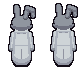
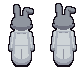
Montaż: ucho Macieja z tyłu głowy, krawat, balkonik, kubek w łapkach, profil z kubkiem, wózek, robotnicy przy obserwatorium, szelki Jani
Claude-Session: https://claude.ai/code/session_01AApWJ5vAAocyN6ZrWVUcqc

Changed region(s): [[0.2619, 0.0597, 0.4286, 0.2985], [0.7619, 0.0597, 0.9286, 0.2985]]

diff --git a/tools/art/jania.js b/tools/art/jania.js
@@ -18,7 +18,8 @@ const R = {
 const EYE = [42, 24, 22], SHINE = [250, 244, 236], BTN = [255, 214, 92], MOUTH = [120, 50, 40];
 const TOP = { light: [0, -0.62, 0.78] }; // światło z góry → cieniowanie symetryczne
 
-function frame(dir, f) {
+// o.paw: prawa łapka przodem w punkcie [x, y] (pisze); o.carry: z boku obie łapki przed sobą, kubek
+function frame(dir, f, o = {}) {
   const b = new P.Buf(FW - 2, FH - 3);
   b.ox = 1; b.oy = 1;
   const S = (prims, ramp, o) => P.solid(b, prims, ramp, { ...(dir === 1 ? {} : TOP), ...o });
@@ -30,15 +31,19 @@ function frame(dir, f) {
     const back = dir === 2, droop = !back && (f === 4 || f === 5), pawUp = !back && f === 5;
     S([E(11, 44 - Math.max(st, 0), 4, 2.2), E(21, 44 - Math.max(-st, 0), 4, 2.2)], R.cream, back ? { dark: 0.85 } : {});
     S([C(12, 39, 12, 42, 3.2), C(20, 39, 20, 42, 3.2), E(16, 35 + bob, 7, 6)], R.denim);
-    S([C(8, 30 + bob, 7, 37 + st, 2.1, 1.9), pawUp ? C(24, 30, 26, 18, 2.1, 1.9) : C(24, 30 + bob, 25, 37 - st, 2.1, 1.9)], R.fur);
-    S([E(7, 38 + st + bob, 2.1, 1.8), pawUp ? E(26, 16, 2.1, 1.8) : E(25, 38 - st + bob, 2.1, 1.8)], R.cream);
+    const rp = o.paw || (pawUp ? [26, 16] : [25, 37 - st]);
+    S([C(8, 30 + bob, 7, 37 + st, 2.1, 1.9), C(24, 30 + bob, rp[0], rp[1] + (o.paw || pawUp ? 0 : bob), 2.1, 1.9)], R.fur);
+    S([E(7, 38 + st + bob, 2.1, 1.8), E(rp[0], rp[1] + 1 + (o.paw || pawUp ? 0 : bob), 2.1, 1.8)], R.cream);
     const by = Math.round(Y(30 + bob));
-    if (back) { for (let i = 0; i < 6; i++) sym(5 - i, by + i, R.denim[1]); S([E(16, 39 + bob, 2.6, 2.4)], R.cream); }
+    if (back) S([E(16, 39 + bob, 2.6, 2.4)], R.cream);
     else {
       for (let d = 0; d < 4; d++) for (let y = by; y < by + 5; y++) sym(d, y, y === by + 4 ? R.denim[1] : R.denim[3]);
       sym(3, by, BTN); sym(0, by + 2, R.denim[2]); sym(1, by + 2, R.denim[2]);
     }
     fill(CX, Y(28.4 + bob), 6, 3, R.fur[1]); // szyja (szersza)
+    // szelki przez ramiona: z tyłu krzyżują się do środka pasa, z przodu idą z karczka w górę pod brodę
+    if (back) for (let i = 0; i < 7; i++) sym(Math.max(0, 4 - Math.floor(i * 0.7)), by - 2 + i, R.denim[1]);
+    else for (const y of [by - 2, by - 1]) { sym(3, y, R.denim[2]); }
     // uszy: symetryczne; prawe opada w klatkach 4-5
     S([C(12, 15 + bob, 11.4, 3 + bob, 2.3, 2.7)], R.fur);
     if (droop) S([C(20, 15, 23, 11, 2.3, 2.6), C(23, 11, 28, 16, 2.6, 2.1)], R.fur);
@@ -92,9 +97,19 @@ function frame(dir, f) {
     const nx = Math.round(X(24)), ny = Math.round(Y(23 + hb));
     b.pset(nx, ny, R.pink[0]); b.pset(nx - 1, ny + 1, MOUTH); b.pset(nx - 2, ny + 2, MOUTH); b.pset(nx - 3, ny + 1, MOUTH);
     b.pset(Math.round(X(19)), ey + 4, R.pink[1]);
-    const sw = f === 0 ? 0 : [-3, 0, 3, 0][ph]; // ręka w przeciwfazie do bliższej nogi
-    S([C(16, 30 + hb, 16 + sw, 37 + hb, 2.1, 1.9)], R.fur);
-    S([E(16 + sw, 38 + hb, 2, 1.8)], R.cream);
+    if (o.carry) {  // kubek trzymany oburącz przed sobą: dalsza łapka za kubkiem, bliższa z przodu
+      const mx = Math.round(X(21.4)), my = Math.round(Y(31 + hb));
+      S([C(15, 30 + hb, 22, 32 + hb, 2, 1.8)], R.fur, { dark: 0.75 });
+      S([E(23.6, 32.6 + hb, 1.8, 1.6)], R.cream, { dark: 0.8 });
+      for (let y = 0; y < 4; y++) for (let x = 0; x < 3; x++) b.pset(mx + x, my + y, y === 0 ? [206, 212, 224] : [240, 242, 248]);
+      b.pset(mx + 3, my + 1, [206, 212, 224]); b.pset(mx + 3, my + 2, [206, 212, 224]);
+      S([C(16, 30 + hb, 20, 34 + hb, 2.1, 1.9)], R.fur);
+      S([E(21, 34.4 + hb, 1.9, 1.7)], R.cream);
+    } else {
+      const sw = f === 0 ? 0 : [-3, 0, 3, 0][ph]; // ręka w przeciwfazie do bliższej nogi
+      S([C(16, 30 + hb, 16 + sw, 37 + hb, 2.1, 1.9)], R.fur);
+      S([E(16 + sw, 38 + hb, 2, 1.8)], R.cream);
+    }
   }
   return ink(P.rimLight(b, R.fur, { dir: dir === 1 ? [-1, -1] : [0, -1] }));
 }
@@ -108,7 +123,7 @@ function breath(src, split = 40) {
 const ROWS = [[0, 7], [1, 5], [2, 3]], COLS = 8;
 const frames = [];
 for (const [dir, n] of ROWS) for (let f = 0; f < COLS; f++) frames.push(f === 7 ? breath(frame(dir, 0)) : f < n ? frame(dir, f) : new P.Buf(FW, FH));
-module.exports = { frames, FW, FH, COLS, R };
+module.exports = { frames, frame, breath, FW, FH, COLS, R };
 
 if (require.main === module) {
   P.save(P.pack(frames, { cols: COLS, pad: 0 }), process.argv[2] + "/jania.png");

diff --git a/tools/art/portraits.js b/tools/art/portraits.js
@@ -60,6 +60,7 @@ Canvas.prototype.front = function (a, b) { return ORDER.indexOf(a) > ORDER.index
 const ell = (cx, cy, rx, ry) => (x, y) => ((x - cx) / rx) ** 2 + ((y - cy) / ry) ** 2 <= 1;
 const sup = (cx, cy, rx, ry, e = 2.6) => (x, y) => Math.abs((x - cx) / rx) ** e + Math.abs((y - cy) / ry) ** e <= 1; // zaokrąglony prostokąt
 const cap = (ax, ay, bx, by, r) => (x, y) => { const vx = bx - ax, vy = by - ay, t = Math.max(0, Math.min(1, ((x - ax) * vx + (y - ay) * vy) / (vx * vx + vy * vy))); return (x - ax - t * vx) ** 2 + (y - ay - t * vy) ** 2 <= r * r; };
+const rell = (cx, cy, rx, ry, a) => (x, y) => { const c = Math.cos(a), s = Math.sin(a), u = (x - cx) * c + (y - cy) * s, v = -(x - cx) * s + (y - cy) * c; return (u / rx) ** 2 + (v / ry) ** 2 <= 1; };
 const or = (...f) => (x, y) => f.some((g) => g(x, y));
 const and = (...f) => (x, y) => f.every((g) => g(x, y));
 const ramp = (n, o) => P.hueRamp(n, o);
@@ -93,16 +94,20 @@ function maciej(blink = false) {
   const furD = ramp(3, { hue: 228, shift: 20, sat: 0.1, light: [0.4, 0.64] });
   const light = ramp(2, { hue: 220, shift: 12, sat: 0.08, light: [0.8, 0.9] });
   const coat = ramp(3, { hue: 212, shift: 16, sat: 0.1, light: [0.74, 0.96] });
-  const shirt = ramp(2, { hue: 208, shift: 14, sat: 0.42, light: [0.46, 0.62] });
+  const shirt = ramp(2, { hue: 210, shift: 10, sat: 0.4, light: [0.8, 0.88] });
   const pinkE = ramp(2, { hue: 352, shift: 10, sat: 0.22, light: [0.62, 0.74] });
   c.add("coat", sup(CX, 97, 38, 28, 2.2), coat, { group: "body" });
   c.add("collar", (x, y) => y > 67 && y < 76 && Math.abs(x - CX) < 21, coat, { group: "body", raw: true }); // ramiona tuż pod policzkami
   c.add("shirt", (x, y) => y > 70 && Math.abs(x - CX) < (y - 70) * 0.45 + 2.5, shirt, { group: "body", flat: true, raw: true });
+  // krawat: wąski węzeł, klinga lekko się rozszerza, szpiczasty koniec
+  const tw = (y) => (y < 74 ? 2 : y < 79 ? 1.5 : y < 84 ? 2.5 : 2.5 - (y - 84) * 0.9);
+  c.add("tie", (x, y) => y > 70.5 && y < 87 && Math.abs(x - CX) < tw(y), ramp(2, { hue: 322, shift: 12, sat: 0.55, light: [0.3, 0.42] }), { group: "body", raw: true });
+  for (let x = 42; x < 46; x++) c.set(x, 73, [96, 28, 70]);                 // dół węzła
   c.add("earL", cap(35, 36, 31, 8, 5.5), fur, { group: "ears" });
   c.add("earLi", cap(34.6, 33, 31.6, 13, 2.4), pinkE, { group: "ears", flat: true });
   c.add("head", or(sup(CX, 52, 23, 18, 2.4), ell(31, 62, 11, 9), ell(57, 62, 11, 9)), fur, { group: "head" });
   c.add("muzzle", or(ell(40, 63, 6.5, 5.2), ell(48, 63, 6.5, 5.2)), light, { group: "head", flat: true });
-  c.add("lop", or(cap(52, 37, 56, 23, 5), cap(56, 23, 66, 27, 5), cap(66, 27, 69, 41, 4.6)), furD, { group: "lop" }); // drugie ucho złamane: wstaje i opada na bok
+  c.add("lop", or(cap(53, 37, 55.5, 22, 5), cap(55.5, 22, 63.5, 24, 5), cap(63.5, 24, 66.5, 30, 4.6)), furD, { group: "ears" }); // drugie ucho: nasada za głową jak pierwsze, zgina się wysoko, krótki płat opada
   // oczy (brązowe), okulary okrągłe, nos, pyszczek, wąsy
   for (const ex of [31, 53]) eye(c, ex, 48, 5, 6, [44, 24, 18], [124, 74, 40], blink ? fur[1] : null);  // środek oka = środek szkła
   for (const ocx of [33, 55]) ring(c, ocx, 51, 6, INK);                     // okrągłe okulary, obręcz 1 px
